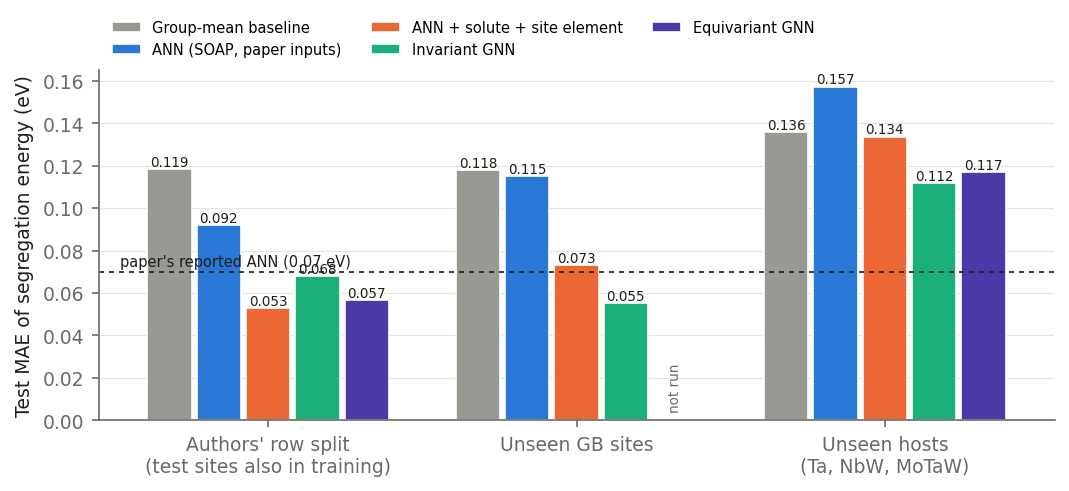
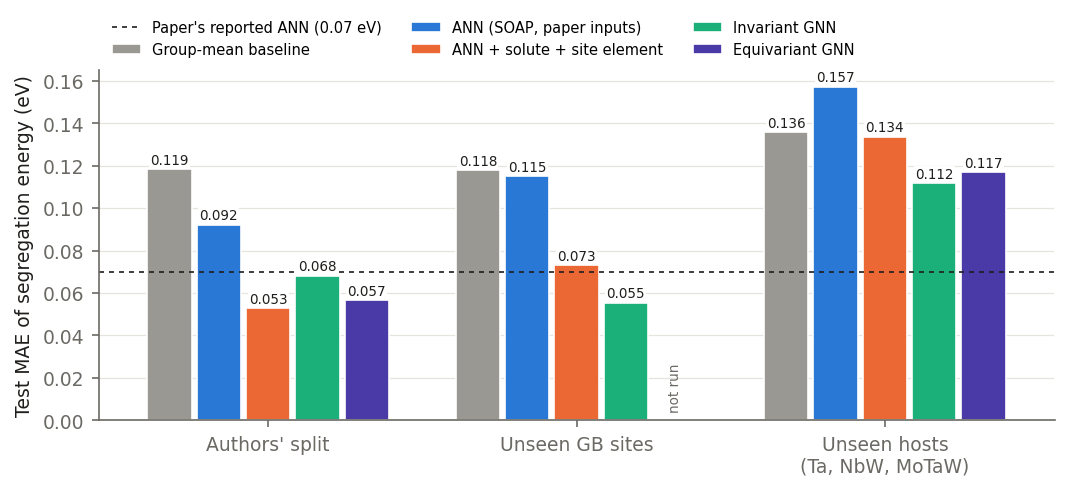
Report: frame unseen sites and hosts as the rigorous comparison, update figure labels and acknowledgements

diff --git a/report/make_figures.py b/report/make_figures.py
@@ -35,7 +35,8 @@ def bars(ax, groups, series, values, fmt):
                 ax.text(x, 0.004, "not run", ha="center", va="bottom", fontsize=6.5, color=MUTED, rotation=90)
                 continue
             ax.bar(x, v, width * 0.9, color=COLORS[s], edgecolor="white", linewidth=0.8, label=LABELS[s] if j == 0 else None)
-            ax.text(x, v, fmt.format(v), ha="center", va="bottom", fontsize=6.5, color=INK)
+            ax.text(x, v + 0.001, fmt.format(v), ha="center", va="bottom", fontsize=6.5, color=INK,
+                    bbox=dict(facecolor="white", edgecolor="none", pad=0.6))
     ax.set_xticks(range(len(groups)))
     ax.yaxis.grid(True, color="#e6e4df", linewidth=0.6)
     ax.set_axisbelow(True)
@@ -63,9 +64,8 @@ def fig_segregation():
     fig, ax = plt.subplots(figsize=(7.2, 3.4))
     groups = ["paper", "site", "base"]
     bars(ax, groups, list(COLORS), v, "{:.3f}")
-    ax.axhline(0.07, color=INK, linestyle=(0, (3, 3)), linewidth=0.8)
-    ax.text(-0.48, 0.0715, "paper's reported ANN (0.07 eV)", ha="left", va="bottom", fontsize=7, color=INK)
-    ax.set_xticklabels(["Authors' row split\n(test sites also in training)", "Unseen GB sites", "Unseen hosts\n(Ta, NbW, MoTaW)"])
+    ax.axhline(0.07, color=INK, linestyle=(0, (3, 3)), linewidth=0.8, label="Paper's reported ANN (0.07 eV)")
+    ax.set_xticklabels(["Authors' split", "Unseen GB sites", "Unseen hosts\n(Ta, NbW, MoTaW)"])
     ax.set_ylabel("Test MAE of segregation energy (eV)")
     ax.set_xlim(-0.55, 2.55)
     ax.legend(frameon=False, fontsize=7, ncol=3, loc="upper left", bbox_to_anchor=(0, 1.18))

diff --git a/report/REPORT.md b/report/REPORT.md
@@ -19,12 +19,9 @@ structure directly. On the authors' own test sets:
   **45 % to 57 %**;
 - it does this without the simulated segregation energies that the authors' occupancy model needs as input.
 
-Two further findings:
-
-- **The original splits leak.** Each site appears once per concentration, so every test label of the regression
-  task also appears in training. We therefore add leak-free splits, on which the GNN's advantage holds or grows.
-- **Unseen chemistry is hard.** Generalisation to an unseen host is limited by the small number of hosts (14), and
-  fails for pure Ta.
+For a rigorous comparison, we also evaluate every model on **unseen GB sites** and **unseen hosts**. On unseen
+sites the GNN's advantage grows. Generalisation to unseen hosts is limited by the small number of hosts (14), and
+fails for pure Ta.
 
 ## 1. Data
 
@@ -49,8 +46,8 @@ Task heads act on the per-atom embeddings:
 
 - **Segregation energy** = h(site, solute) − h(bulk reference atom, solute). This is exactly the dataset's
   definition, E(solute at GB site) − E(solute at bulk reference), so per-host energy offsets cancel by construction.
-- **Occupancy** = σ(g(site embedding, solute, concentration)). The input is the *undecorated* host, so the label
-  cannot leak in through the structure.
+- **Occupancy** = σ(g(site embedding, solute, concentration)). The input is the *undecorated* host, so the
+  occupancy is never visible in the input structure.
 
 Predictions are invariant to rotations to within 10⁻⁶ (checked).
 
@@ -63,14 +60,15 @@ Predictions are invariant to rotations to within 10⁻⁶ (checked).
 Our XGBoost reproduction matches the published result: 90.2 % accuracy and 44.4 % true-positive rate (TPR),
 against the reported 90.2 % and 45.2 %.
 
-**Splits.**
+**Splits.** Besides the authors' split, we use unseen sites and unseen hosts for a rigorous comparison, plus a
+concentration split for occupancy.
 
-| Split | Train / test | Leakage |
-|---|---|---|
-| Authors' | Their exact shuffled row splits, rebuilt from their scripts and mapped back to sites | Regression: 100 % of test labels have copies in training |
-| Unseen sites | Disjoint GB sites | None |
-| Unseen hosts | Test on Ta, NbW and MoTaW | None |
-| Concentration | Train 5–30 %, test 40–50 % solute | None |
+| Split | Train / test |
+|---|---|
+| Authors' | Their exact shuffled row splits, rebuilt from their scripts and mapped back to sites |
+| Unseen sites | Test GB sites never seen in training (all solutes and concentrations of a site kept together) |
+| Unseen hosts | Test on Ta, NbW and MoTaW, which are never seen in training |
+| Concentration | Train on 5–30 % solute, test on 40–50 % |
 
 ## 3. Results
 
@@ -91,7 +89,7 @@ All values are test MAE in eV.
 - **Authors' split:** the equivariant GNN reaches 0.057 eV (MSE 0.0064 eV², R² = 0.82), against the reported
   0.07 eV (MSE 0.01).
 - **Solute identity matters.** The paper's ANN inputs do not encode the solute, so a site has identical inputs for
-  four different targets. Adding the solute makes the ANN the best model on the leaky split.
+  four different targets. Adding the solute makes the ANN the best model on the authors' split.
 - **On unseen sites the GNN wins clearly** (0.055 vs 0.073 eV). This is the setting that matters for new
   microstructures.
 
@@ -139,9 +137,9 @@ predicted 0.53). No training host shows this behaviour.
 1. **Structure alone is enough.** An equivariant GNN on the raw structure matches or beats descriptor models that
    are given simulated segregation energies. This removes the energy-calculation step from the prediction
    pipeline.
-2. **Evaluation protocol matters as much as architecture.** Row-level random splits of duplicated site data reward
-   memorisation: on the leaky split an ANN with chemistry information looks best. Site-, host- and
-   concentration-held-out splits should be reported alongside them.
+2. **Unseen sites and hosts give a rigorous comparison.** On the authors' split an ANN with chemistry information
+   is competitive, but on unseen sites the GNN is clearly better (0.055 vs 0.073 eV). Reporting site- and
+   host-held-out results alongside the authors' split gives a fuller picture of how well each model generalises.
 3. **Equivariance helps on seen chemistry, not on unseen hosts.** It reduces the error by 17 % on the authors'
    split, but is slightly worse than the invariant model on unseen hosts. With only 14 hosts, cross-chemistry
    generalisation is limited by data, not by the model.
@@ -150,8 +148,8 @@ predicted 0.53). No training host shows this behaviour.
 
 - All labels come from one polycrystal at a single temperature (300 K).
 - Occupancy labels are single MC/MD snapshots.
-- The equivariant model was size-limited by a 4 GB GPU, and still underfits: its test error equals its training
-  error on the leaky split.
+- The equivariant model was size-limited by a 4 GB GPU and still underfits: its test error is close to its
+  training error, so a larger model or longer training is likely to help.
 
 ## 5. Next steps
 
@@ -163,7 +161,7 @@ predicted 0.53). No training host shows this behaviour.
 
 ## Acknowledgements
 
-We thank Doruk Aksoy for providing the dataset.
+We thank Doruk Aksoy and Tim Rupert for providing the dataset.
 
 ## References
 
